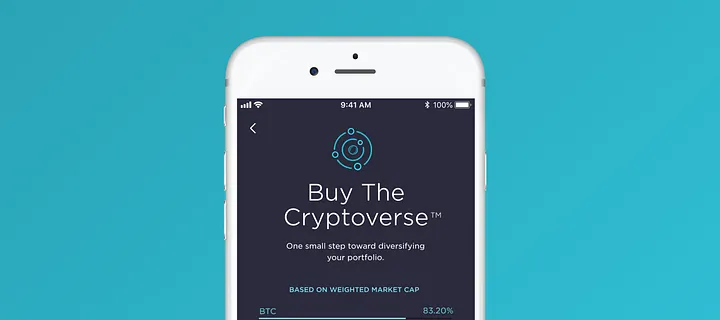
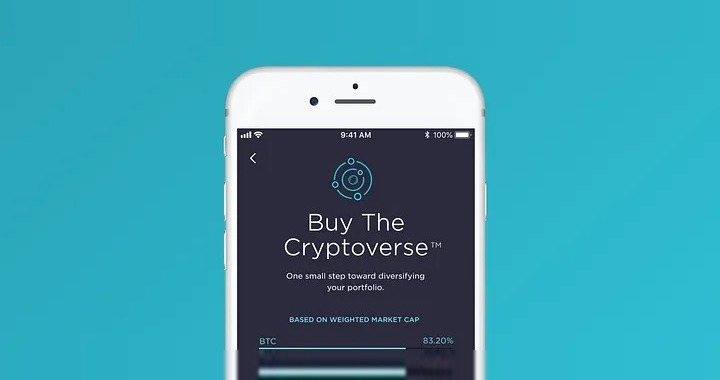
Marquee: swap Pilot Project to clean wordmark + Gemini card zoom-out refined

diff --git a/index.html b/index.html
@@ -1345,6 +1345,9 @@
             <li class="marquee__item">
               <span class="logo-card" data-brand="benchmark"><img src="/logos/benchmark.png" alt="Benchmark Analytics" loading="lazy" draggable="false"></span>
             </li>
+            <li class="marquee__item">
+              <span class="logo-card" data-brand="pilot-project"><img src="/logos/Pilot_Project_Logo_Solo-01.jpg" alt="Pilot Project Brewing" loading="lazy" draggable="false"></span>
+            </li>
             <!-- META era 2021–Present -->
             <li class="marquee__item marquee__item--milestone">
               <span class="logo-card logo-card--milestone" data-brand="meta-era">
@@ -1410,6 +1413,9 @@
             </li>
             <li class="marquee__item">
               <span class="logo-card" data-brand="benchmark"><img src="/logos/benchmark.png" alt="" loading="lazy" draggable="false"></span>
+            </li>
+            <li class="marquee__item">
+              <span class="logo-card" data-brand="pilot-project"><img src="/logos/Pilot_Project_Logo_Solo-01.jpg" alt="" loading="lazy" draggable="false"></span>
             </li>
             <li class="marquee__item marquee__item--milestone">
               <span class="logo-card logo-card--milestone" data-brand="meta-era">